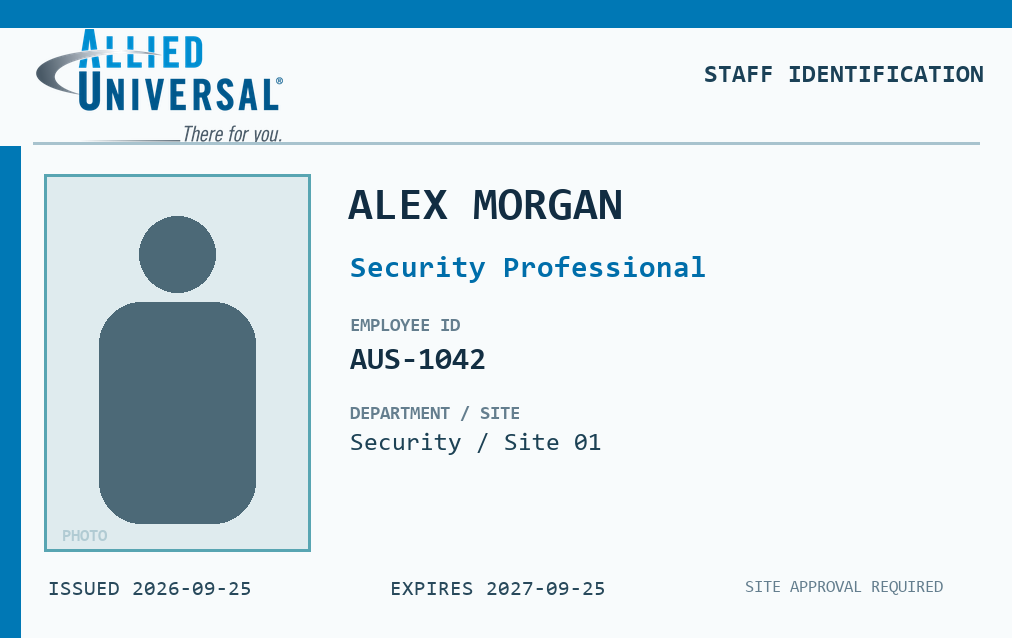
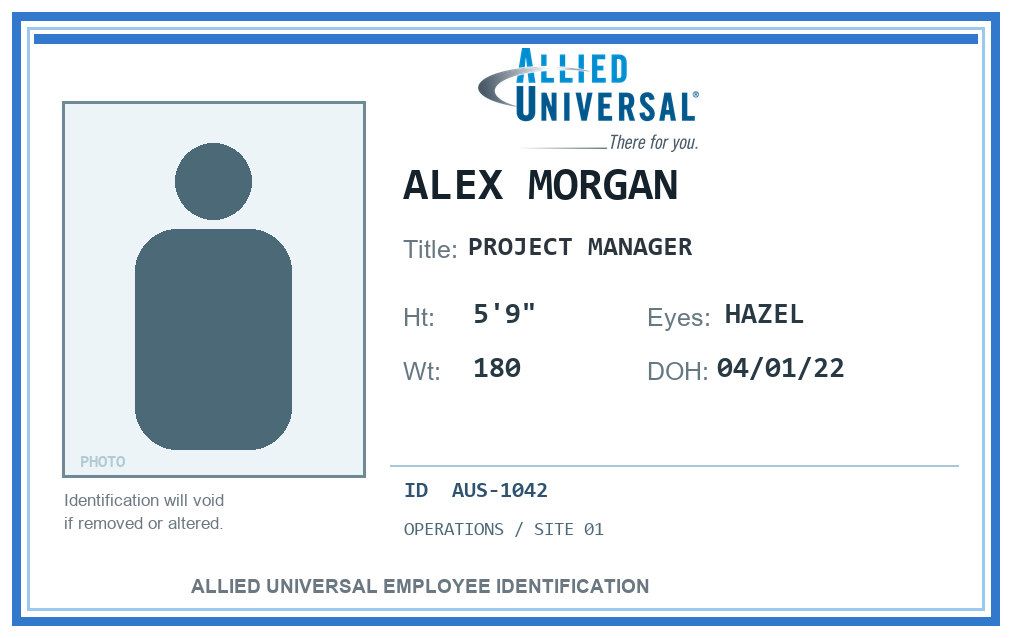
Refine AUS and 16-bit NightCode badges

diff --git a/retro-tools/badge_templates.py b/retro-tools/badge_templates.py
@@ -18,9 +18,18 @@ def font(size: int, bold: bool = False):
         return ImageFont.load_default()
 
 
+def sans_font(size: int, bold: bool = False):
+    name = 'arialbd.ttf' if bold else 'arial.ttf'
+    try:
+        return ImageFont.truetype(str(Path('C:/Windows/Fonts') / name), size)
+    except OSError:
+        return font(size, bold)
+
+
 def validate(record: dict) -> dict:
     result = {key: str(record.get(key, '')).strip() for key in
-              ('template', 'name', 'role', 'department', 'site', 'employee_id', 'issuer', 'issued', 'expires', 'photo')}
+              ('template', 'name', 'role', 'department', 'site', 'employee_id', 'issuer',
+               'issued', 'expires', 'photo', 'height', 'weight', 'eyes', 'hire_date')}
     if result['template'] not in TEMPLATES:
         raise ValueError('Select a badge template.')
     if not result['name']:
@@ -38,6 +47,133 @@ def validate(record: dict) -> dict:
     if result['template'] == 'State ID specimen':
         result['employee_id'] = 'DEMO-' + (result['employee_id'].removeprefix('DEMO-') or '0000')[:12]
     return result
+
+
+def _aus_card(data: dict, assets: Path) -> Image.Image:
+    """Landscape site badge based on the supplied white/blue clip-card layout."""
+    image = Image.new('RGB', SIZE, '#ffffff')
+    d = ImageDraw.Draw(image)
+    d.rectangle((12, 12, 999, 625), outline='#3278cc', width=9)
+    d.rectangle((27, 27, 984, 610), outline='#9bc9ed', width=3)
+    d.rectangle((34, 34, 977, 43), fill='#3278cc')
+    logo_path = assets / 'allied-universal-official-logo.png'
+    if logo_path.is_file():
+        with Image.open(logo_path) as src:
+            logo = src.convert('RGBA')
+            logo = logo.crop(logo.getbbox())
+            logo.thumbnail((485, 104), Image.Resampling.LANCZOS)
+            image.paste(logo, (478, 48), logo)
+    else:
+        d.text((505, 58), 'ALLIED UNIVERSAL', font=sans_font(42, True), fill='#006ca7')
+    _photo(image, data['photo'], (62, 101, 365, 477), '#edf4f7')
+    d = ImageDraw.Draw(image)
+    d.rectangle((62, 101, 365, 477), outline='#708997', width=3)
+    d.text((64, 490), 'Identification will void', font=sans_font(17), fill='#6d7880')
+    d.text((64, 513), 'if removed or altered.', font=sans_font(17), fill='#6d7880')
+    x = 403
+    words = data['name'].upper().split()
+    lines = []
+    current = ''
+    for word in words:
+        candidate = f'{current} {word}'.strip()
+        if current and d.textlength(candidate, font=sans_font(46, True)) > 560:
+            lines.append(current)
+            current = word
+        else:
+            current = candidate
+    if current:
+        lines.append(current)
+    for i, line in enumerate(lines[:2]):
+        _text(d, (x, 164 + i * 58), line, size=46, fill='#15222b', bold=True, max_width=560)
+    title_y = 177 + min(len(lines), 2) * 58
+    d.text((x, title_y), 'Title:', font=sans_font(25), fill='#697781')
+    _text(d, (468, title_y - 1), (data['role'] or 'EMPLOYEE').upper(),
+          size=27, fill='#2c353d', bold=True, max_width=490)
+    y = title_y + 68
+    for col, label, value in [
+        (x, 'Ht:', data['height']), (647, 'Eyes:', data['eyes']),
+        (x, 'Wt:', data['weight']), (647, 'DOH:', data['hire_date']),
+    ]:
+        row = y if label in ('Ht:', 'Eyes:') else y + 54
+        d.text((col, row), label, font=sans_font(25), fill='#667882')
+        _text(d, (col + (78 if label == 'Eyes:' else 70), row - 2), value or '—',
+              size=29, fill='#283943', bold=True, max_width=230)
+    d.line((390, 465, 958, 465), fill='#a9c7da', width=2)
+    _text(d, (404, 480), f"ID  {data['employee_id']}", size=22, fill='#2e526f', bold=True, max_width=550)
+    detail = ' / '.join(filter(None, (data['department'], data['site'])))
+    _text(d, (404, 520), detail, size=19, fill='#4d6879', max_width=550)
+    d.text((191, 575), 'ALLIED UNIVERSAL EMPLOYEE IDENTIFICATION',
+           font=sans_font(19, True), fill='#6b7881')
+    return image
+
+
+def _nightcode_card(data: dict) -> Image.Image:
+    """Draw at half resolution so every graphic edge lands on a 2-pixel grid."""
+    image = Image.new('RGB', (506, 319), '#040d1c')
+    d = ImageDraw.Draw(image)
+    # Staggered circuit traces and a hard, stepped chrome border.
+    for y in range(49, 273, 18):
+        d.line((275, y, 495, y), fill='#0a2039', width=1)
+        d.rectangle((474 - (y % 35), y - 1, 476 - (y % 35), y + 1), fill='#123960')
+    d.rectangle((3, 3, 502, 315), outline='#0a568a', width=3)
+    d.rectangle((7, 7, 498, 311), outline='#3ce3ff', width=1)
+    d.rectangle((12, 12, 493, 58), fill='#091e3b')
+    d.rectangle((12, 59, 493, 62), fill='#125cad')
+    d.rectangle((12, 62, 493, 64), fill='#8d42ca')
+    for x in range(16, 486, 8):
+        d.rectangle((x, 69, x + 2, 70), fill='#18416a')
+    # NightCode's pixel skull and crossed traces, echoing the site mark.
+    mark = [(7, 0, 29, 4), (3, 4, 33, 8), (0, 9, 36, 24),
+            (4, 24, 32, 30), (9, 30, 27, 34)]
+    ox, oy = 22, 18
+    for x0, y0, x1, y1 in mark:
+        d.rectangle((ox + x0, oy + y0, ox + x1, oy + y1), fill='#42e6ff')
+    d.rectangle((ox + 8, oy + 16, ox + 14, oy + 22), fill='#06182d')
+    d.rectangle((ox + 22, oy + 16, ox + 28, oy + 22), fill='#06182d')
+    d.rectangle((ox + 17, oy + 24, ox + 20, oy + 28), fill='#06182d')
+    d.line((ox + 3, oy + 37, ox + 32, oy + 45), fill='#299bff', width=3)
+    d.line((ox + 32, oy + 37, ox + 3, oy + 45), fill='#299bff', width=3)
+    d.text((70, 19), 'NIGHTCODE', font=font(29, True), fill='#ebfaff')
+    d.text((308, 38), 'NODE ID // 16-BIT', font=font(10, True), fill='#a172e8')
+    # Recessed portrait panel with pixel corners.
+    d.rectangle((19, 79, 157, 274), fill='#08182e', outline='#34cfff', width=2)
+    d.rectangle((24, 84, 152, 269), outline='#15568e', width=1)
+    if data['photo'] and Path(data['photo']).is_file():
+        try:
+            with Image.open(data['photo']) as src:
+                portrait = ImageOps.fit(src.convert('RGB'), (124, 181),
+                                        method=Image.Resampling.LANCZOS, centering=(0.5, 0.3))
+            portrait = portrait.resize((62, 91), Image.Resampling.BOX).resize((124, 182), Image.Resampling.NEAREST)
+            image.paste(portrait.crop((0, 0, 124, 181)), (26, 86))
+        except (OSError, ValueError):
+            pass
+    else:
+        d.rectangle((28, 88, 148, 263), fill='#0b2441')
+        # Blocky silhouette, intentionally unlike the stock round avatar.
+        d.rectangle((67, 111, 112, 148), fill='#23618b')
+        d.rectangle((73, 103, 105, 115), fill='#367ba5')
+        d.rectangle((54, 154, 124, 246), fill='#174566')
+        d.polygon([(54, 166), (67, 148), (112, 148), (124, 166)], fill='#2a6288')
+        d.rectangle((73, 181, 105, 188), fill='#287cbd')
+    d.rectangle((19, 255, 157, 274), fill='#092844')
+    d.text((26, 259), 'PORTRAIT / 01', font=font(9, True), fill='#53ddf1')
+    # Legible operator data in a clear grid.
+    x = 172
+    d.text((x, 83), 'OPERATIVE RECORD', font=font(11, True), fill='#36d5f0')
+    d.rectangle((x, 102, 486, 104), fill='#2d6ea5')
+    _text(d, (x, 111), data['name'].upper(), size=23, fill='#f1f7ff', bold=True, max_width=312)
+    d.text((x, 151), (data['role'] or 'OPERATIVE').upper(), font=font(13, True), fill='#ab7aef')
+    d.text((x, 184), 'NODE', font=font(10, True), fill='#54abc4')
+    _text(d, (x + 75, 180), data['site'] or 'LOCAL', size=13, fill='#d7e9f9', max_width=236)
+    d.text((x, 208), 'DIVISION', font=font(10, True), fill='#54abc4')
+    _text(d, (x + 75, 204), data['department'] or 'FIELD', size=13, fill='#d7e9f9', max_width=236)
+    d.text((x, 236), 'ACCESS KEY', font=font(10, True), fill='#54abc4')
+    _text(d, (x + 96, 232), data['employee_id'], size=13, fill='#f0f8ff', bold=True, max_width=218)
+    d.rectangle((12, 281, 493, 305), fill='#0a2440')
+    d.rectangle((12, 281, 493, 282), fill='#3759a9')
+    _text(d, (24, 288), f"ISSUED {data['issued'] or '--'}", size=10, fill='#85daf2')
+    _text(d, (262, 288), f"EXPIRES {data['expires'] or '--'}", size=10, fill='#85daf2')
+    return image.resize(SIZE, Image.Resampling.NEAREST)
 
 
 def _photo(canvas: Image.Image, photo_path: str, box: tuple[int, int, int, int], fill: str):
@@ -71,50 +207,9 @@ def render(record: dict, assets: Path) -> Image.Image:
     data = validate(record)
     template = data['template']
     if template == 'Allied Universal staff':
-        image = Image.new('RGB', SIZE, '#f8fbfc')
-        d = ImageDraw.Draw(image)
-        d.rectangle((0, 0, 1012, 27), fill='#0078b5')
-        d.rectangle((0, 146, 20, 638), fill='#0078b5')
-        logo_path = assets / 'allied-universal-official-logo.png'
-        if logo_path.is_file():
-            with Image.open(logo_path) as src:
-                logo = src.convert('RGBA')
-                logo = logo.crop(logo.getbbox())
-                logo.thumbnail((540, 116), Image.Resampling.LANCZOS)
-                image.paste(logo, (36, 29), logo)
-        else:
-            _text(d, (43, 62), 'ALLIED UNIVERSAL', size=55, fill='#006ea7', bold=True)
-        _text(d, (704, 63), 'STAFF IDENTIFICATION', size=25, fill='#1b4157', bold=True)
-        d.line((33, 143, 979, 143), fill='#a8c3ce', width=3)
-        _photo(image, data['photo'], (44, 174, 310, 551), '#dfebee')
-        _text(d, (348, 185), data['name'].upper(), size=45, fill='#122d42', bold=True, max_width=610)
-        _text(d, (350, 254), data['role'] or 'EMPLOYEE', size=30, fill='#006eaa', bold=True, max_width=605)
-        _text(d, (350, 316), 'EMPLOYEE ID', size=19, fill='#647e8e', bold=True)
-        _text(d, (350, 345), data['employee_id'], size=31, fill='#132f43', bold=True)
-        _text(d, (350, 404), 'DEPARTMENT / SITE', size=19, fill='#647e8e', bold=True)
-        _text(d, (350, 431), ' / '.join(filter(None, (data['department'], data['site']))) or '—',
-              size=25, fill='#1d4255', max_width=610)
-        _text(d, (48, 579), f"ISSUED {data['issued'] or '—'}", size=21, fill='#28495b')
-        _text(d, (390, 579), f"EXPIRES {data['expires'] or '—'}", size=21, fill='#28495b')
-        _text(d, (745, 579), 'SITE APPROVAL REQUIRED', size=17, fill='#647e8e')
+        image = _aus_card(data, assets)
     elif template == 'NightCode in-world':
-        image = Image.new('RGB', SIZE, '#08131f')
-        d = ImageDraw.Draw(image)
-        for x in range(12, 1012, 16):
-            d.line((x, 0, x, 638), fill='#0b1b28', width=1)
-        d.rectangle((8, 8, 1003, 629), outline='#62c9d1', width=5)
-        d.rectangle((22, 22, 990, 126), fill='#0d2633')
-        d.rectangle((22, 128, 990, 136), fill='#724c8d')
-        _text(d, (52, 39), 'NIGHTCODE', size=66, fill='#8be1df', bold=True)
-        _text(d, (721, 55), 'LOCAL NODE // ID', size=26, fill='#b299d3', bold=True)
-        _photo(image, data['photo'], (45, 165, 304, 553), '#102c3d')
-        _text(d, (338, 185), data['name'].upper(), size=48, fill='#ecf4f4', bold=True, max_width=615)
-        _text(d, (340, 257), data['role'] or 'OPERATIVE', size=28, fill='#8be1df', bold=True)
-        _text(d, (340, 321), f"NODE / {data['site'] or 'LOCAL'}", size=23, fill='#a9bccc')
-        _text(d, (340, 364), f"DIVISION / {data['department'] or 'FIELD'}", size=23, fill='#a9bccc')
-        _text(d, (340, 427), f"ID {data['employee_id']}", size=30, fill='#d6b7ea', bold=True)
-        _text(d, (51, 582), f"ISSUED {data['issued'] or '—'}   EXPIRES {data['expires'] or '—'}",
-              size=20, fill='#96b7c5')
+        image = _nightcode_card(data)
     else:
         image = Image.new('RGB', SIZE, '#ecf0e8')
         d = ImageDraw.Draw(image)

diff --git a/retro-tools/badge_editor.py b/retro-tools/badge_editor.py
@@ -23,7 +23,8 @@ class BadgeEditor(ttk.Frame):
         self.current_uid = None
         self._preview_job = None
         self.values = {key: tk.StringVar() for key in
-                       ('template', 'name', 'role', 'department', 'site', 'employee_id', 'issuer', 'issued', 'expires', 'photo')}
+                       ('template', 'name', 'role', 'department', 'site', 'employee_id', 'issuer',
+                        'issued', 'expires', 'photo', 'height', 'weight', 'eyes', 'hire_date')}
         self.values['template'].set(TEMPLATES[0])
         self.values['issued'].set(date.today().isoformat())
         self._build()
@@ -62,6 +63,17 @@ class BadgeEditor(ttk.Frame):
                 ('employee_id', 'Employee / card ID'), ('issuer', 'Issued by'),
                 ('issued', 'Issue date'), ('expires', 'Expiry date')]):
             cell = ttk.Frame(fields, style='Panel.TFrame')
+            cell.grid(row=index // 2, column=index % 2, sticky='ew', padx=(0, 6), pady=(1, 2))
+            ttk.Label(cell, text=label, style='Panel.TLabel').pack(anchor='w')
+            ttk.Entry(cell, textvariable=self.values[key], width=22).pack(fill='x')
+
+        self.aus_details = ttk.Frame(left, style='Panel.TFrame')
+        self.aus_details.columnconfigure(0, weight=1)
+        self.aus_details.columnconfigure(1, weight=1)
+        for index, (key, label) in enumerate([
+                ('height', 'Height'), ('eyes', 'Eye color'),
+                ('weight', 'Weight'), ('hire_date', 'Date of hire')]):
+            cell = ttk.Frame(self.aus_details, style='Panel.TFrame')
             cell.grid(row=index // 2, column=index % 2, sticky='ew', padx=(0, 6), pady=(1, 2))
             ttk.Label(cell, text=label, style='Panel.TLabel').pack(anchor='w')
             ttk.Entry(cell, textvariable=self.values[key], width=22).pack(fill='x')
@@ -110,6 +122,10 @@ class BadgeEditor(ttk.Frame):
 
     def _apply_template(self):
         choice = self.values['template'].get()
+        if choice == 'Allied Universal staff':
+            self.aus_details.pack(fill='x', pady=(2, 0), after=self.aus_details.master.winfo_children()[1])
+        else:
+            self.aus_details.pack_forget()
         defaults = {
             'NightCode in-world': ('OPERATIVE', 'FIELD', 'LOCAL NODE', 'NC-0001'),
             'Allied Universal staff': ('Security Professional', 'Security', '', ''),
@@ -188,7 +204,7 @@ class BadgeEditor(ttk.Frame):
 
     def new_record(self):
         self.current_uid = None
-        for key in ('name', 'photo', 'expires', 'issuer'):
+        for key in ('name', 'photo', 'expires', 'issuer', 'height', 'weight', 'eyes', 'hire_date'):
             self.values[key].set('')
         self.values['issued'].set(date.today().isoformat())
         self.photo_label.configure(text='No photo selected')

diff --git a/retro-tools/README.md b/retro-tools/README.md
@@ -13,7 +13,7 @@ Two local Windows desktop utilities in the NightCode family. Double-click `dist/
 
 ## Netcon
 
-- Creates three badge layouts: fictional NightCode IDs, Allied Universal staff cards, and visibly nonvalid **DEMO STATE / SPECIMEN** design studies. The staff layout takes a cardholder photo, role, department, site, employee ID, and issue/expiry dates. It saves local records and exports 300 DPI CR80-sized PNG or PDF files; no badge printer is required.
+- Creates three badge layouts: a blue/cyan 16-bit NightCode ID with a pixel skull mark, an Allied Universal staff card modeled on the supplied white/blue landscape badge, and visibly nonvalid **DEMO STATE / SPECIMEN** design studies. The staff layout takes a cardholder photo, name, title, height, weight, eye color, date of hire, department, site, and employee ID. It saves local records and exports 300 DPI CR80-sized PNG or PDF files; no badge printer is required.
 - The Allied Universal layout uses the logo from the [official Allied Universal newsroom resource library](https://ausnewsroom.aus.com/resources/9xno8-dpke5-f75db-7y3vs-7jsed). Employer/site approval is still required for issuance or access activation. Netcon does not encode RFID credentials or grant door access.
 - Keeps an inventory of RFID/NFC tag identifiers that you enter yourself; does not read, clone, jam, or emulate credentials.
 - Records lock hardware, damage, and maintenance notes, with a simple 3D cylinder illustration for documentation. It does not produce picking or bypass instructions.
